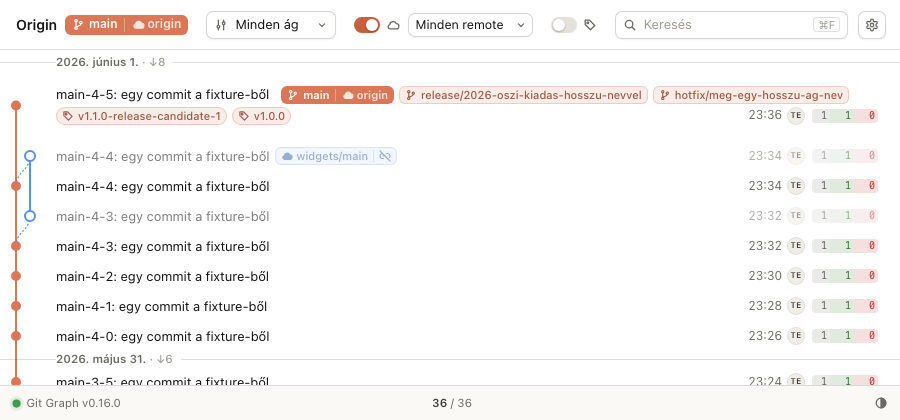
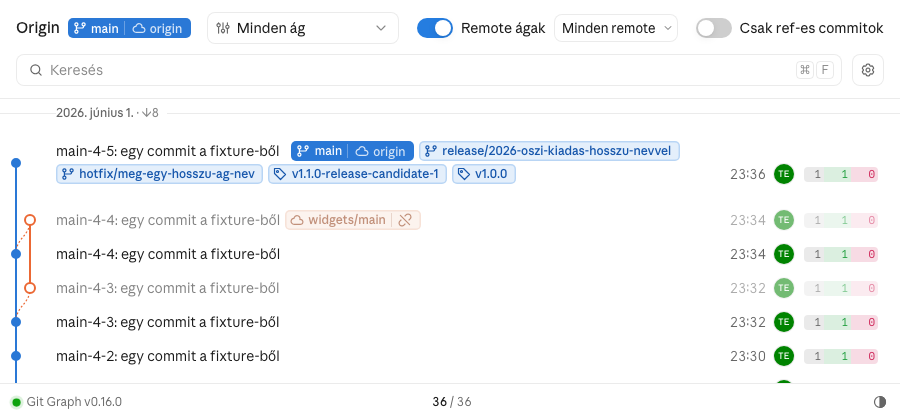
docs(file-diff): a lenyitott fájl kártya, mint a commit — README: CDS-megjelenés, azonos nevű upstream, piros jelzés; új képek

diff --git a/scripts/screenshots.py b/scripts/screenshots.py
@@ -29,6 +29,7 @@ class SubtreeShots(SubtreeTest):
         out.mkdir(parents=True, exist_ok=True)
         self.page.screenshot(path=str(out / "graph.png"))
         self.page.locator("#remotesBtn").click()
+        self.page.mouse.move(450, 400)   # a gomb buboréka ne takarja a menüt
         self.settle()
         self.page.screenshot(path=str(out / "remote-filter.png"), clip={"x": 0, "y": 0, "width": 900, "height": 180})
 

diff --git a/README.md b/README.md
@@ -3,16 +3,21 @@
 Git Graph-szerű, élő commit-gráf **bármelyik repóból** — Artifactként a Claude
 appban.
 A gráf a VS Code [`mhutchie.git-graph`](https://marketplace.visualstudio.com/items?itemName=mhutchie.git-graph)
-mintáját követi, a megjelenés a Claude appét: meleg paletta, Claude Light / Dark
-kódszínek, napokra bontott egysoros lista. A soron kattintva lefelé nyílik a
+mintáját követi, a megjelenés a Claude appét: az app design-systemje (CDS, a fizzy-lake
+téma: semleges szürkék, kék akcentus, az app ikonjai, Anthropic Sans és Mono), Claude Light /
+Dark kódszínek, napokra bontott egysoros lista. A soron kattintva lefelé nyílik a
 commit: szerző GitHub-avatarral, szülő(k), GitHub-link, fájlok és
-szintaxisszínezett diff. Ha a helyi ág és a remote-ja ugyanott áll, egy
+szintaxisszínezett diff. A lenyitott commit kerek kártya: a sor hover-színéből nyílik (a
+közepéről halványul, közben megjelenik a kerete), csukáskor a lenyitott fájljai vele együtt
+csukódnak. Ha a helyi ág és a remote-ja ugyanott áll, egy
 badge-ben látszanak, egyetlen felhő-és-ág ikonnal (az alapágé teli). Az ág-badge végén a távolságai,
 csak a nem nulla irány: `↑a ↓b` az alapághoz (amire az `origin/HEAD` mutat —
-mennyit jött az ág, mennyit haladt közben a main), `☁ ↑c ↓d` a remote-társához
-(ha nem egy helyen állnak); a csak remote-os ág badge-én utolsóként `⑂ ↑e ↓f` a
+mennyit jött az ág, mennyit haladt közben a main), `☁ ↑c ↓d` a saját, azonos nevű
+upstreamjéhez (ha nem egy helyen állnak; a más nevű upstream, pl. az `origin/main`-ből
+indított branché, nem számít: `-u`-val pusholva a saját remote branche lesz az); a csak remote-os ág badge-én utolsóként `⑂ ↑e ↓f` a
 helyi párjához. Ha az alapág helyi párja (`main`) előrébb jár a remote-jánál, a
-`☁ ↑` piros (a `main`-en nem dolgozunk, ez anomália). Közös ős nélküli ágon (pl. egy `git subtree push` remote-ja) a távolság helyén
+`☁ ↑` szakasz piros (a `main`-en nem dolgozunk, ez anomália): a halvány chipen halvány
+piros, piros kerettel, a teli chipen teli piros. Közös ős nélküli ágon (pl. egy `git subtree push` remote-ja) a távolság helyén
 áthúzott lánc áll, a commitjai (a fő történet tükrei) halványak, és szaggatott ív köti
 őket a forrásukhoz; több remote-nál a „Remote ágak” melletti menü remote-onként rejt el
 ([Subtree-remote](docs/subtree-remote.md)). Ha a badge nem fér ki, csak a név
@@ -117,7 +122,7 @@ commitjukról, több csonk legyezőszerűen. Ami nem a sajáté, halványabb (a 
 vett ágak a fő checkouté). Az ágválasztó worktree-nként csoportosít: fejléc (a
 sajáté a fejléc chipjének színével), alatta az ágai — amelyikben utoljára ki volt
 véve, a worktree HEAD-reflogja szerint —, a gazdátlanok utánuk, a csak remote ágak a
-végén. A helyi ág és az upstreamje egy opció (ha egy helyen állnak, egy sor a közös
+végén. A menü a lap magasságának ~80 %-áig nyúlhat le. A helyi ág és az azonos nevű upstreamje egy opció (ha egy helyen állnak, egy sor a közös
 felhő-és-ág ikonnal, különben egymás alatt az ág és a felhő): a sorra kattintva mindkettő kijelölődik, egy kipipált sor pipájára
 kattintva csak az kerül ki; ha semmi sem marad, újra minden ág látszik. A worktree
 fejlécére kattintva az összes ága kijelölődik; a gomb ikonja és felirata a

diff --git a/docs/file-diff.md b/docs/file-diff.md
@@ -14,6 +14,11 @@ széles (széles Artifact-ablak), **side-by-side** nézetre vált:
 balra a régi, jobbra az új oldal, a cserélt sorok egymás mellett — átméretezéskor
 magától, újratöltés nélkül.
 
+A lenyitott fájlsor és a diffje egy kerek kártya, mint a lenyitott commit: a sor
+hover-színéből nyílik (a közepéről halványul, közben megjelenik a kerete és az árnyéka), a
+tartalma 20 %-ról indulva jelenik meg. Ha a commit csukódik, a lenyitott fájljai vele együtt
+csukódnak, és újranyitva csukva vannak.
+
 A diff nincs a teljes adatban: a lap lenyitáskor kéri, fájlonként (a
 `file_diff` toollal). A commitok diffje gyorstárazva, az
 Uncommitted soré élőben frissül. Egy fájlból legfeljebb 3000 sor látszik.
@@ -36,7 +41,7 @@ változatából. A külső (`http(s)://`) kép alt szöveg marad, a HTML `<img>`
 ## Követelmények
 
 ```gherkin
-Feature: Képek a fájl-diffben
+Feature: A fájl-diff: képek és a lenyitott kártya
 
   Rule: R-1 — A képfájl diffje képet mutat, nem „Bináris fájl.” feliratot
 
@@ -144,12 +149,26 @@ Feature: Képek a fájl-diffben
     Scenario: HTML-kép
       Given a markdownban egy "<img src=\"img/graph.png\" align=\"left\">" HTML-blokk áll
       Then a blokk forrásként, kódként jelenik meg
+
+  Rule: R-5 — A lenyitott fájl kártya, mint a commit: a hoverből nyílik, a committal csukódik
+
+    Scenario: Nyitás a hoverből
+      Given az egér a fájlsoron áll
+      When a Fejlesztő rákattint
+      Then a sor és a lenyíló diff hover-színű, és a közepéről a széléig halványul
+      And közben megjelenik a kerek kerete és az árnyéka, a nyitással együtt érve véget
+
+    Scenario: A commit csukása a fájlt is csukja
+      Given egy commit lenyitva, benne egy lenyitott fájllal
+      When a Fejlesztő becsukja a commitot
+      Then a fájl diffje a committal együtt csukódik
+      And a commit újranyitásakor a fájl csukva van
 ```
 
 ## Használat
 
 - A részletek-panelben a fájlsorra kattintva nyílik és csukódik a diff; a fájlnév a
   GitHub-link.
-- Markdown-fájlnál a jobb felső sarokgomb vált a renderelt és a nyers diff között; SVG-nél a
-  kép és a kód között. A lap mindkettőt megjegyzi.
+- Markdown-fájlnál a jobb felső kétgombos kapcsoló vált a renderelt és a nyers diff között;
+  SVG-nél a kép és a kód között. A lap mindkettőt megjegyzi.
 - A side-by-side nézethez szélesítsd az Artifact ablakát (a diff legalább 1000 px).
